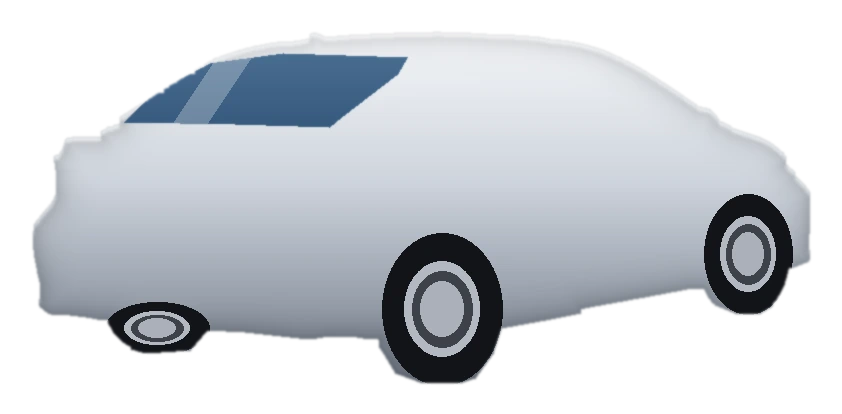
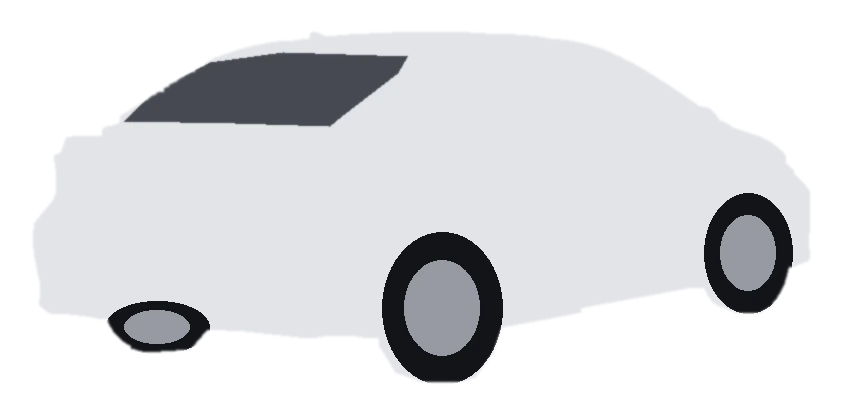
Silueta plana de un solo color (sin azul ni brillos), estilo ícono
Claude-Session: https://claude.ai/code/session_014yhigp5Ag2JZXchVpT8CaG

diff --git a/sitio/catalogo.js b/sitio/catalogo.js
@@ -631,5 +631,5 @@ window.AUTO_FOTOS = {
   frente: { src: 'img/auto/frente-sil.webp',
             zonas: { 'parabrisas': [[16.3,31.3],[20.6,18.4],[25.6,12.5],[35.1,10.9],[65.2,10.9],[74.7,12.5],[79.7,18.4],[83.9,31.3],[50.1,32.2]] } },
   atras:  { src: 'img/auto/atras-sil.webp',
-            zonas: { 'luneta': [[14.8,29.7],[18.7,21.7],[25.1,15.4],[33.7,13.0],[48.4,13.8],[47.2,18.1],[40.6,28.4],[39.2,30.8],[27.9,30.1]] } },
+            zonas: { 'luneta': [[14.8,29.5],[18.7,21.5],[25.1,15.2],[33.7,12.8],[48.4,13.6],[47.2,17.9],[40.6,28.2],[39.2,30.6],[27.9,30.0]] } },
 };

diff --git a/sitio/style.css b/sitio/style.css
@@ -729,4 +729,4 @@ select{background-repeat:no-repeat;background-position:right 14px center;backgro
 .picker.con-foto{background:radial-gradient(ellipse at 50% 100%,rgba(255,59,47,.3) 0,rgba(20,8,10,.92) 64%)}
 .veh-prev.foto{aspect-ratio:auto;padding:46px 18px 14px;overflow:visible}
 .veh-prev.foto>img{width:100%;max-width:520px;height:auto;object-fit:contain;filter:drop-shadow(0 16px 20px rgba(0,0,0,.55))}
-.foto-picker polygon{fill:rgba(255,59,47,.10)}
+.foto-picker polygon{fill:rgba(255,59,47,.22);stroke:rgba(255,255,255,.55)}
